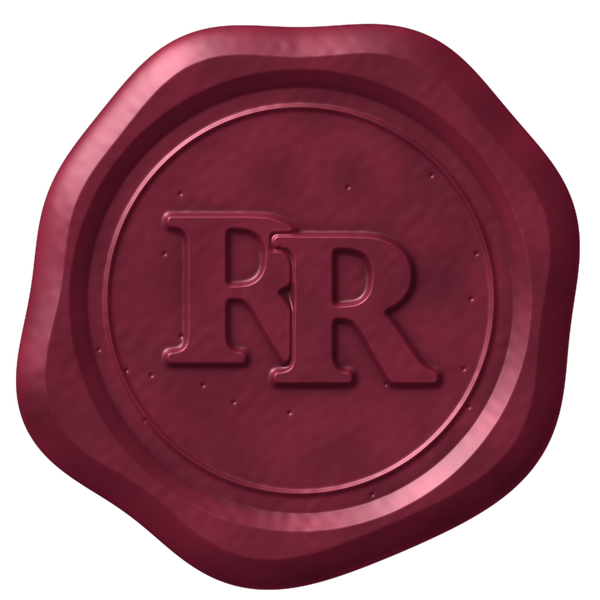
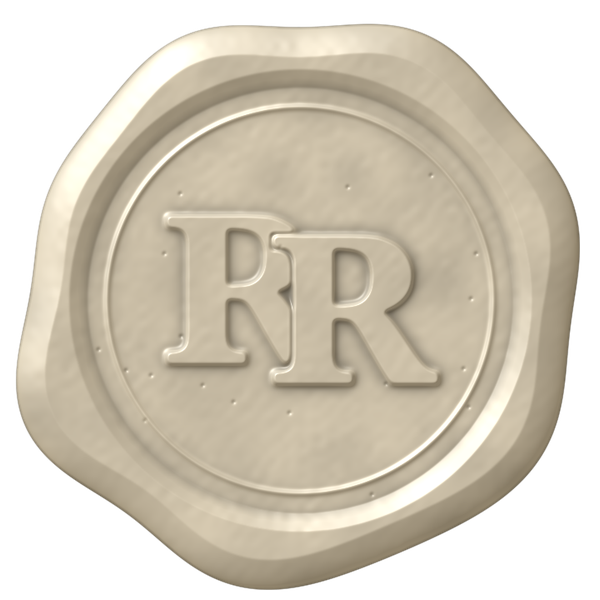
Seal: beige wax

diff --git a/style.css b/style.css
@@ -97,7 +97,7 @@ button { font: inherit; color: inherit; cursor: pointer; -webkit-tap-highlight-c
 .seal {
   position: absolute; z-index: 5; left: 50%; top: 50%; width: 128px; height: 128px; translate: -50% -50%;
   padding: 0; border: 0; background: none; border-radius: 50%;
-  filter: drop-shadow(0 2px 2px rgba(30, 14, 16, .45)) drop-shadow(0 8px 14px rgba(25, 30, 18, .35));
+  filter: drop-shadow(0 2px 2px rgba(40, 44, 30, .4)) drop-shadow(0 8px 14px rgba(30, 36, 22, .32));
   animation: sealBreath 3.4s ease-in-out infinite;
 }
 .seal img { width: 100%; height: 100%; display: block; }

diff --git a/tools/seal.py b/tools/seal.py
@@ -1,4 +1,4 @@
-"""A pressed burgundy wax seal with an interlocking RR in relief -> assets/seal.png (transparent).
+"""A pressed beige wax seal with an interlocking RR in relief -> assets/seal.png (transparent).
 Built as a height map (wax puddle, stamped rim and field, bevelled letters), then lit like wax:
 soft diffuse, a glossy highlight, darker hollows and a little colour bleeding through the thin edges."""
 import numpy as np
@@ -65,16 +65,16 @@ spec = np.clip(dot(Hh), 0, 1) ** 30
 sheen = np.clip(dot(Hh), 0, 1) ** 8
 ao = np.clip(1 - (nd.gaussian_filter(hs, 9) - hs) * 2.2, .55, 1)
 
-base = np.array([112, 30, 48.]) / 255
-deep = np.array([58, 12, 24.]) / 255
-lit = np.array([168, 62, 80.]) / 255
+base = np.array([214, 202, 178.]) / 255
+deep = np.array([138, 126, 104.]) / 255
+lit = np.array([240, 233, 216.]) / 255
 c = deep + (base - deep) * np.clip(diff * 1.25, 0, 1)[..., None]
 c = c + (lit - base) * np.clip(diff - .72, 0, 1)[..., None] * 2.2
-c = c * ao[..., None] * (1 + smooth_noise(S, 40, 9)[..., None] * .05)
+c = c * ao[..., None] * (1 + smooth_noise(S, 40, 9)[..., None] * .022)
 # thin outer edge glows a little (light through the wax)
 thin = np.exp(-np.clip(edge, 0, None) / 5)[..., None] * (edge > 0)[..., None]
-c = c + thin * np.array([.12, .02, .04])
-c = c + spec[..., None] * .4 + sheen[..., None] * .06
+c = c + thin * np.array([.04, .035, .02])
+c = c + spec[..., None] * .22 + sheen[..., None] * .04
 rgba = np.dstack([np.clip(c, 0, 1), mask])
 Image.fromarray((rgba * 255).astype(np.uint8)).resize((600, 600), Image.LANCZOS).save("assets/seal.png", optimize=True)
 print("wrote assets/seal.png")

diff --git a/README.md b/README.md
@@ -2,7 +2,7 @@
 
 A phone-first invitation in sage, ivory and soft burgundy, structured like The Digital Yes "Fresco" demo but with its own artwork.
 
-1. **Envelope** — sage card blind-embossed with florals (`tools/envelope.py`), a burgundy wax seal with an interlocking RR in relief (`tools/seal.py`). Tap the seal or scroll: the seal lifts, the flap opens onto the site and the envelope slides away.
+1. **Envelope** — sage card blind-embossed with florals (`tools/envelope.py`), a beige wax seal with an interlocking RR in relief (`tools/seal.py`). Tap the seal or scroll: the seal lifts, the flap opens onto the site and the envelope slides away.
 2. **Hero** — a torn ivory card over Winslow Homer's palm and sea: the calligraphy is written in, then names, date, 6 PM, Secret Garden at W Dubai – The Palm. A personal link (`?to=Name`) adds "Dear Name," at the top.
 3. **Countdown** in a sage linen frame with flowers that bloom in.
 4. **A Note from Us**, then a painted sea band that drifts like the tide.
